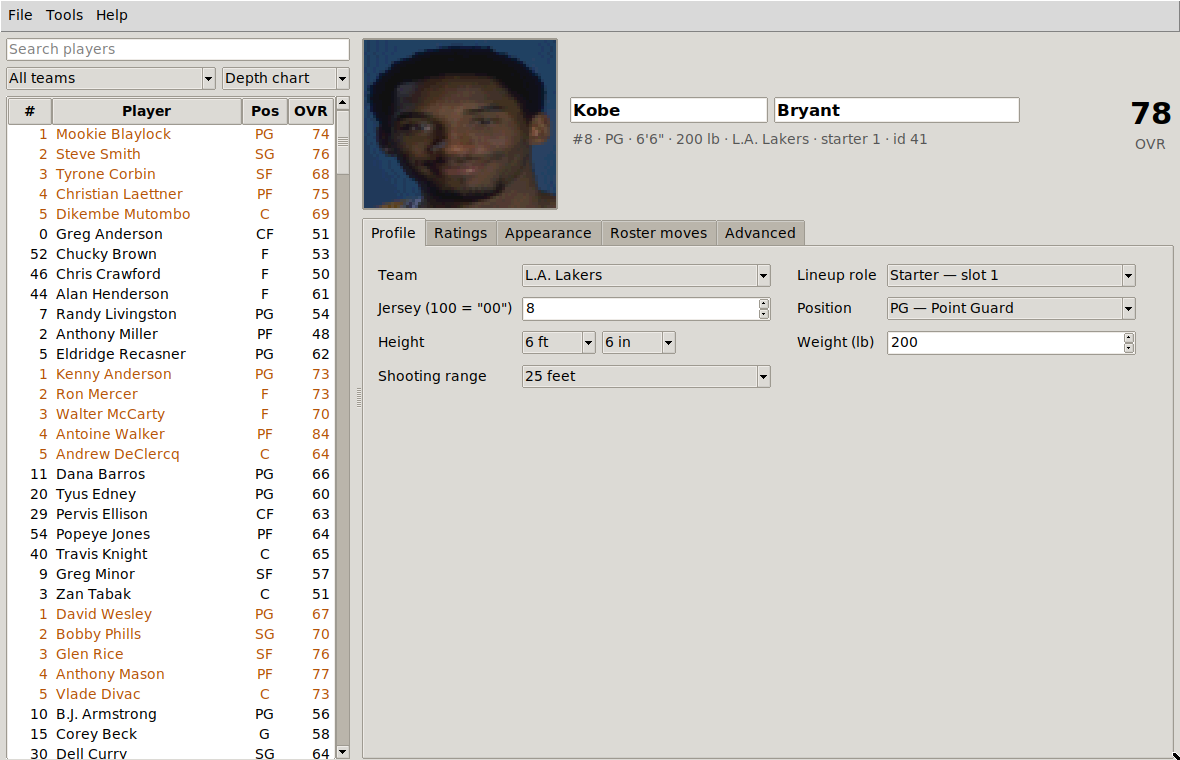
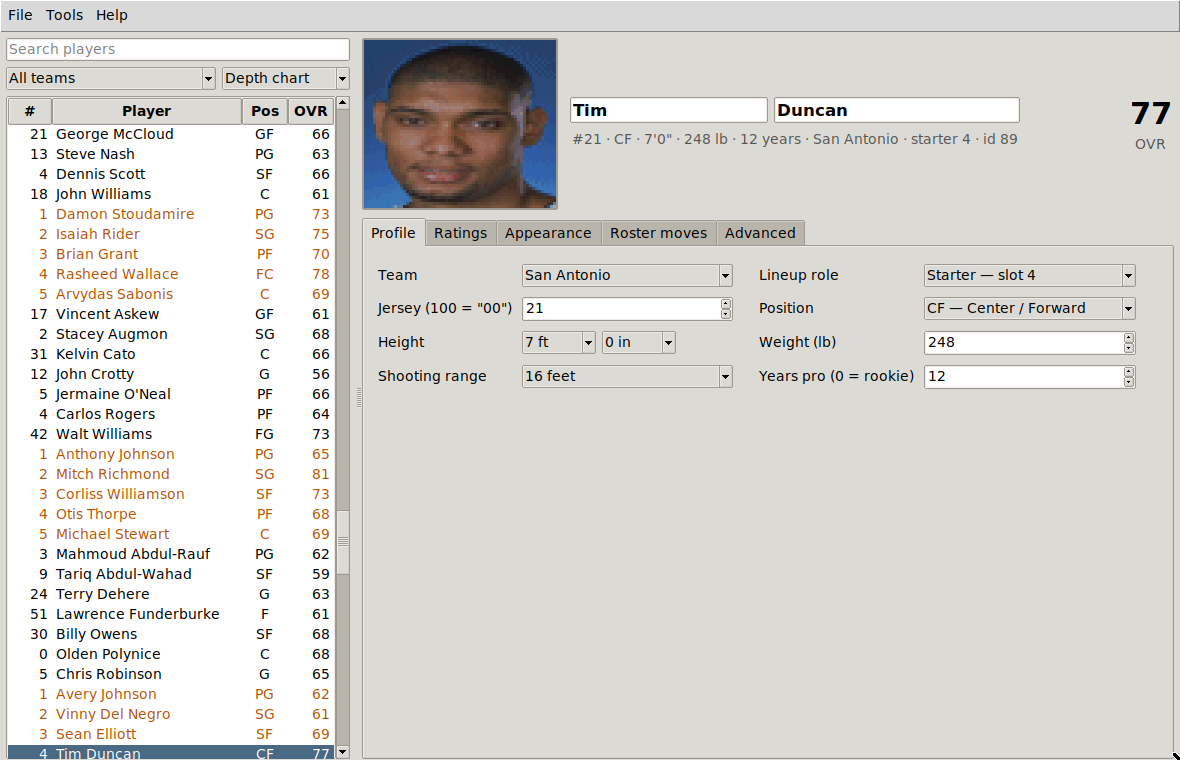
Make years pro editable, and stop overwriting it with likenesses
Byte 0x10 of the player record turns out to be years pro. It was checked
against the draft year of 68 players and agrees with every one: the 1997
rookie class sits at 0, Kobe Bryant at 1, Reggie Miller at 10, John Stockton
and Hakeem Olajuwon at 13, and the four 1980-81 draftees - Mahorn, Schayes,
Buck Williams, Herb Williams - at 16. Across the whole roster it forms a
clean career pyramid, 33 rookies tapering to those four.

It is now a first-class field: a spinbox on the Profile tab of both UIs,
"set --years-pro N" on the command line, "list --sort years", and part of
the JSON export. Cards read "experience: rookie" or "experience: 10 years".

This also fixes a bug the identification exposed. 0x10 sat inside the run of
model and skin bytes that "reassign appearance" copies wholesale, so giving
one player another's face silently rewrote his career length - handing Tim
Duncan the look of Karl Malone aged him from rookie to twelve seasons. The
byte is now excluded from that copy, with a test pinning the behaviour.

Claude-Session: https://claude.ai/code/session_016LzGDPGcqnbG4eMU1GV3iH

diff --git a/courtside/web/app.js b/courtside/web/app.js
@@ -132,7 +132,8 @@ function renderDetail() {
   $(".f-last", root).value = p.last_name;
   $(".subtitle", root).textContent =
     `#${p.jersey_text} · ${p.position} · ${p.height_text} · ${p.weight_lbs} lb · ` +
-    `${p.team_name}${p.starter ? ` · starter ${p.starter}` : ""} · id ${p.id}`;
+    `${p.years_pro_text} · ${p.team_name}` +
+    `${p.starter ? ` · starter ${p.starter}` : ""} · id ${p.id}`;
   $(".ovr-value", root).textContent = p.overall;
 
   // profile
@@ -149,6 +150,7 @@ function renderDetail() {
   $(".f-inches", root).innerHTML = optionList(
     [...Array(12).keys()].map((i) => ({ value: i, label: `${i} in` })), inch);
   $(".f-weight", root).value = p.weight_lbs;
+  $(".f-years", root).value = p.years_pro;
   $(".f-range", root).innerHTML = optionList(
     STATE.meta.range_feet.map((ft, i) => ({ value: i, label: `${ft} feet` })), p.range);
 
@@ -170,7 +172,7 @@ function renderDetail() {
     .map((o) => ({ value: o.id, label: `${o.last_name}, ${o.first_name} — ${o.team_name}` }));
   $(".f-source", root).innerHTML = optionList(others, others.length ? others[0].value : "");
   $(".portrait-source", root).src = photoUrl($(".f-source", root).value);
-  $(".model-grid", root).innerHTML = ["model_a", "model_b", "flags_a", "flags_b", "misc_14", "misc_15"]
+  $(".model-grid", root).innerHTML = ["model_b", "flags_a", "flags_b", "misc_14", "misc_15"]
     .map((key) => miscField(key, p)).join("");
 
   // moves
@@ -181,7 +183,7 @@ function renderDetail() {
 
   // advanced
   $(".misc-grid", root).innerHTML = STATE.meta.misc
-    .filter((m) => !["model_a", "model_b", "flags_a", "flags_b", "misc_14", "misc_15"].includes(m.key))
+    .filter((m) => !["model_b", "flags_a", "flags_b", "misc_14", "misc_15"].includes(m.key))
     .map((m) => miscField(m.key, p)).join("");
 
   host.innerHTML = "";
@@ -233,6 +235,7 @@ function wireDetail(host, p) {
   bind(".f-jersey", "jersey", Number);
   bind(".f-position", "position");
   bind(".f-weight", "weight_lbs", Number);
+  bind(".f-years", "years_pro", Number);
   bind(".f-range", "range", Number);
   bind(".f-team", "team", Number);
   bind(".f-starter", "starter", Number);

diff --git a/courtside/web/index.html b/courtside/web/index.html
@@ -100,6 +100,9 @@
       <label>Shooting range
         <select class="f-range"></select>
       </label>
+      <label>Years pro <span class="tiny">(0 = rookie)</span>
+        <input class="f-years" type="number" min="0" max="30">
+      </label>
     </div>
   </div>
 

diff --git a/courtside/gui.py b/courtside/gui.py
@@ -280,6 +280,15 @@ class CourtsideGUI(tk.Tk):
             values=["%d feet" % ft for ft in roster.RANGE_FEET])
         self.cmb_range.pack(fill="x")
         self.cmb_range.bind("<<ComboboxSelected>>", lambda e: self.commit_range())
+
+        self.var_years = tk.StringVar()
+        self.spn_years = ttk.Spinbox(
+            cell(3, 1, "Years pro (0 = rookie)"), from_=0, to=roster.YEARS_PRO_MAX,
+            increment=1, textvariable=self.var_years,
+            command=lambda: self.commit_years())
+        self.spn_years.pack(fill="x")
+        self.spn_years.bind("<FocusOut>", lambda e: self.commit_years())
+        self.spn_years.bind("<Return>", lambda e: self.commit_years())
         return tab
 
     def _tab_ratings(self) -> ttk.Frame:
@@ -391,7 +400,7 @@ class CourtsideGUI(tk.Tk):
 
         ttk.Separator(tab, orient="horizontal").pack(fill="x", pady=14)
         self.model_vars = self._byte_grid(
-            tab, ["model_a", "model_b", "flags_a", "flags_b", "misc_14", "misc_15"])
+            tab, ["model_b", "flags_a", "flags_b", "misc_14", "misc_15"])
         return tab
 
     def _tab_moves(self) -> ttk.Frame:
@@ -437,7 +446,7 @@ class CourtsideGUI(tk.Tk):
             "editable for experimentation; leave them alone if you are unsure.")
         ).pack(anchor="w", pady=(0, 12))
         keys = [m[0] for m in roster.MISC_FIELDS
-                if m[0] not in ("model_a", "model_b", "flags_a", "flags_b",
+                if m[0] not in ("model_b", "flags_a", "flags_b",
                                 "misc_14", "misc_15")]
         self.misc_vars = self._byte_grid(tab, keys)
         return tab
@@ -589,9 +598,9 @@ class CourtsideGUI(tk.Tk):
         try:
             self.var_first.set(p.first_name)
             self.var_last.set(p.last_name)
-            self.lbl_sub.config(text="#%s · %s · %s · %d lb · %s%s · id %d" % (
+            self.lbl_sub.config(text="#%s · %s · %s · %d lb · %s · %s%s · id %d" % (
                 p.jersey_text, p.position, p.height_text, p.weight_lbs,
-                db.team_name(p.team),
+                p.years_pro_text, db.team_name(p.team),
                 " · starter %d" % db.starter_slot(p) if db.starter_slot(p) else "",
                 p.player_id))
             self.lbl_ovr.config(text=str(p.overall))
@@ -605,6 +614,7 @@ class CourtsideGUI(tk.Tk):
             self.var_inches.set("%d in" % p.height_remainder)
             self.var_weight.set(str(p.weight_lbs))
             self.var_range.set("%d feet" % p.range_feet)
+            self.var_years.set(str(p.years_pro))
 
             for key, var in self.rating_vars.items():
                 value = p.attribute(key)
@@ -730,6 +740,18 @@ class CourtsideGUI(tk.Tk):
             return
         self.current.set_height(feet, inches)
         self._after_edit("Height set to %s" % self.current.height_text)
+
+    def commit_years(self) -> None:
+        if self._loading or self.current is None:
+            return
+        try:
+            value = int(float(self.var_years.get()))
+        except ValueError:
+            return
+        if self.current.years_pro == value:
+            return
+        self.current.years_pro = value
+        self._after_edit("Experience set to %s" % self.current.years_pro_text)
 
     def commit_range(self) -> None:
         if self._loading or self.current is None:

diff --git a/tests/test_courtside.py b/tests/test_courtside.py
@@ -383,6 +383,25 @@ class TestRomRoundTrip(unittest.TestCase):
         bogues = self.editor.one("Bogues")
         self.assertEqual(bogues.height_text, "5'3\"")
 
+    def test_years_pro_matches_real_careers(self):
+        # seasons completed before 1997-98, taken from each player's draft year
+        expected = {
+            "Tim Duncan": 0, "Keith Van Horn": 0, "Brevin Knight": 0,
+            "Kobe Bryant": 1, "Allen Iverson": 1, "Ray Allen": 1,
+            "Kevin Garnett": 2, "Grant Hill": 3, "Anfernee Hardaway": 4,
+            "Shaquille O'Neal": 5, "Dikembe Mutombo": 6, "Gary Payton": 7,
+            "Reggie Miller": 10, "Dennis Rodman": 11, "Karl Malone": 12,
+            "John Stockton": 13, "Hakeem Olajuwon": 13, "Buck Williams": 16,
+        }
+        for name, want in expected.items():
+            self.assertEqual(self.editor.one(name).years_pro, want, name)
+
+    def test_rookies_and_veterans_look_sane(self):
+        years = [p.years_pro for p in self.editor.db.real_players()]
+        self.assertEqual(min(years), 0)
+        self.assertLessEqual(max(years), roster.YEARS_PRO_MAX)
+        self.assertGreater(years.count(0), 20)   # a full rookie class
+
     def test_heights_are_valid_feet_inches(self):
         for p in self.editor.db.players:
             self.assertLessEqual(p.height_remainder, 11, p.full_name)
@@ -458,6 +477,25 @@ class TestEditing(unittest.TestCase):
         db.set_starter_slot(bench, 1)
         slots = sorted(s.starter for s in db.roster(13) if s.starter)
         self.assertEqual(slots, [1, 2, 3, 4, 5])
+
+    def test_years_pro_survives_a_save(self):
+        p = self.editor.one("Tim Duncan")
+        self.assertEqual(p.years_pro, 0)
+        p.years_pro = 12
+        path = self.out()
+        self.editor.save(path)
+        again = RosterEditor.open(path)
+        self.assertEqual(again.one("Tim Duncan").years_pro, 12)
+        self.assertEqual(again.one("Tim Duncan").years_pro_text, "12 years")
+
+    def test_reassigning_a_likeness_leaves_experience_alone(self):
+        # 0x10 sits among the model bytes but is a career figure, not a look
+        rookie = self.editor.one("Tim Duncan")
+        veteran = self.editor.one("Karl Malone")
+        before = rookie.years_pro
+        self.editor.reassign_appearance("Tim Duncan", "Karl Malone")
+        self.assertEqual(rookie.years_pro, before)
+        self.assertNotEqual(rookie.years_pro, veteran.years_pro)
 
     def test_appearance_reassignment_persists(self):
         dst, src = self.editor.reassign_appearance("Shaquille", "Kobe Bryant")

diff --git a/courtside/cli.py b/courtside/cli.py
@@ -44,6 +44,7 @@ def print_card(ed: RosterEditor, p: roster.Player) -> None:
     print("  id %-6d team %-18s %s" % (
         p.player_id, ed.db.team_name(p.team),
         "starter %d" % slot if slot else "bench"))
+    print("  experience: %s" % p.years_pro_text)
     print("  %s, %d lb   shooting range %d ft" % (p.height_text, p.weight_lbs, p.range_feet))
     print("  ratings:")
     for a in roster.ATTRIBUTES:
@@ -115,7 +116,8 @@ def cmd_list(ed: RosterEditor, args) -> int:
     key = {"name": lambda p: p.last_name.lower(),
            "overall": lambda p: -p.overall,
            "team": lambda p: (p.team, p.last_name.lower()),
-           "id": lambda p: p.player_id}[args.sort]
+           "id": lambda p: p.player_id,
+           "years": lambda p: -p.years_pro}[args.sort]
     for p in sorted(players, key=key):
         print(player_line(ed, p))
     print("%d player(s)" % len(players))
@@ -143,6 +145,8 @@ def cmd_set(ed: RosterEditor, args) -> int:
         p.jersey = args.jersey
     if args.position:
         p.position = args.position
+    if args.years_pro is not None:
+        p.years_pro = args.years_pro
     if args.height:
         p.height_inches = parse_height(args.height)
     if args.weight is not None:
@@ -301,7 +305,8 @@ def build_parser() -> argparse.ArgumentParser:
     p.add_argument("--search", help="substring of the player's name")
     p.add_argument("--position", help="exact position code, e.g. SG")
     p.add_argument("--all", action="store_true", help="include the bonus/dev roster slots")
-    p.add_argument("--sort", choices=("name", "overall", "team", "id"), default="name")
+    p.add_argument("--sort", choices=("name", "overall", "team", "id", "years"),
+                   default="name")
     p.set_defaults(func=cmd_list)
 
     p = sub.add_parser("show", help="print a full player card")
@@ -315,6 +320,8 @@ def build_parser() -> argparse.ArgumentParser:
     p.add_argument("--last-name")
     p.add_argument("--jersey", type=int)
     p.add_argument("--position", help="one of %s" % ", ".join(roster.POSITION_CODES))
+    p.add_argument("--years-pro", type=int, metavar="N",
+                   help="seasons completed before this one; 0 is a rookie")
     p.add_argument("--height", help="e.g. 6'6\" or 78")
     p.add_argument("--weight", type=int, help="pounds")
     p.add_argument("--range", type=int, choices=range(5),

diff --git a/courtside/roster.py b/courtside/roster.py
@@ -66,11 +66,16 @@ ATTRIBUTES_BY_KEY = {a.key: a for a in ATTRIBUTES}
 RANGE_OFFSET = 0x16
 RANGE_FEET = (8, 12, 16, 20, 25)
 
+#: Seasons completed before this one; 0 is a rookie.  Verified against the
+#: draft year of 68 players, from the 1997 rookie class up to the four
+#: 1980-81 draftees who sit at 16.
+YEARS_PRO_OFFSET = 0x10
+YEARS_PRO_MAX = 30
+
 #: Bytes that drive how a player looks and behaves but whose exact meaning is
 #: not pinned down.  They are copied wholesale by "reassign appearance" and are
 #: individually editable for anyone who wants to experiment.
 MISC_FIELDS: tuple[tuple[str, str, int, int, int], ...] = (
-    ("model_a", "Model A", 0x10, 0, 255),
     ("model_b", "Model B", 0x11, 0, 255),
     ("flags_a", "Flags A", 0x12, 0, 255),
     ("flags_b", "Flags B", 0x13, 0, 255),
@@ -84,8 +89,10 @@ MISC_FIELDS: tuple[tuple[str, str, int, int, int], ...] = (
 
 MISC_BY_KEY = {m[0]: m for m in MISC_FIELDS}
 
-#: The six bytes that describe a player's on-court model and skin.
-APPEARANCE_OFFSETS = (0x10, 0x11, 0x12, 0x13, 0x14, 0x15)
+#: The bytes that describe a player's on-court model and skin.  0x10 sits in
+#: the middle of this run but is his years pro, so it is deliberately excluded:
+#: handing someone another player's face must not rewrite his career length.
+APPEARANCE_OFFSETS = (0x11, 0x12, 0x13, 0x14, 0x15)
 
 # ---------------------------------------------------------------------------
 # positions
@@ -275,6 +282,22 @@ class Player:
     @property
     def jersey_text(self) -> str:
         return "00" if self.jersey == JERSEY_DOUBLE_ZERO else str(self.jersey)
+
+    @property
+    def years_pro(self) -> int:
+        """Seasons completed before this one; 0 is a rookie."""
+        return self.raw[YEARS_PRO_OFFSET]
+
+    @years_pro.setter
+    def years_pro(self, value: int) -> None:
+        self.raw[YEARS_PRO_OFFSET] = max(0, min(YEARS_PRO_MAX, int(value)))
+
+    @property
+    def years_pro_text(self) -> str:
+        years = self.years_pro
+        if years == 0:
+            return "rookie"
+        return "%d year%s" % (years, "" if years == 1 else "s")
 
     @property
     def position(self) -> str:

diff --git a/courtside/editor.py b/courtside/editor.py
@@ -203,6 +203,8 @@ class RosterEditor:
             "jersey": p.jersey,
             "jersey_text": p.jersey_text,
             "position": p.position,
+            "years_pro": p.years_pro,
+            "years_pro_text": p.years_pro_text,
             "height_inches": p.height_inches,
             "height_text": p.height_text,
             "weight_lbs": p.weight_lbs,
@@ -251,6 +253,8 @@ class RosterEditor:
             p.jersey = int(entry["jersey"])
         if entry.get("position"):
             p.position = entry["position"]
+        if "years_pro" in entry:
+            p.years_pro = int(entry["years_pro"])
         if "height_inches" in entry:
             p.height_inches = int(entry["height_inches"])
         if "weight_lbs" in entry:

diff --git a/README.md b/README.md
@@ -23,6 +23,7 @@ Python 3.10 or newer and nothing else.
   starting slots)
 - Jersey number, including the "00" shirt
 - Position — all eleven codes the game supports: `C PF SF F G PG SG FC CF GF FG`
+- Years pro, from rookie up to a 16-season veteran
 - Height in feet and inches, and weight in pounds
 - Shooting range (8, 12, 16, 20 or 25 feet)
 - All fourteen ratings: Shooting, 3 Pointers, Free Throws, Dribbling, Passing,
@@ -142,11 +143,12 @@ python3 -m courtside rom.z64 info
 python3 -m courtside rom.z64 teams --verbose --nba-only
 python3 -m courtside rom.z64 list --team Lakers
 python3 -m courtside rom.z64 list --sort overall | head -20
+python3 -m courtside rom.z64 list --sort years | head -20     # most experienced
 python3 -m courtside rom.z64 show "Reggie Miller"
 
 # edit a player
 python3 -m courtside rom.z64 set "Kobe Bryant" -o out.z64 \
-    --jersey 24 --position SG --height 6'7\" --weight 212 \
+    --jersey 24 --position SG --height 6'7\" --weight 212 --years-pro 5 \
     --attr three_pointers=95 --attr dunking=100 --starter 1
 
 # roster moves
@@ -178,6 +180,7 @@ python3 -m courtside rom.z64 verify
 ```
 Reggie Miller  (#31, SG)
   id 205    team Indiana            starter 2
+  experience: 10 years
   6'7", 185 lb   shooting range 25 ft
   ratings:
     Shooting       100  ####################

diff --git a/docs/FILE_FORMATS.md b/docs/FILE_FORMATS.md
@@ -182,7 +182,8 @@ u32  slots used    (348 real NBA players; the rest are the bonus teams)
 | `0x0D` | u8 | height: feet in the high nibble, inches in the low one (`0x61` = 6'1") |
 | `0x0E` | u8 | weight in pounds − 100 |
 | `0x0F` | u8 | always 0 |
-| `0x10`–`0x15` | u8 × 6 | on-court model / skin bytes |
+| `0x10` | u8 | years pro — seasons completed before this one, 0 for a rookie |
+| `0x11`–`0x15` | u8 × 5 | on-court model / skin bytes |
 | `0x16` | u8 | shooting range, index into 8/12/16/20/25 feet |
 | `0x17` | u8 | Shooting |
 | `0x18` | u8 | 3 Pointers |
@@ -212,6 +213,13 @@ one byte of the record, which pins the mapping. Spot checks agree with what you
 would expect: Shaquille O'Neal has Free Throws 49 and Dunking 100, Reggie
 Miller has 3 Pointers 100, Gary Payton has Stealing 100, Dikembe Mutombo has
 Blocking 100 and Muggsy Bogues has Blocking 5.
+
+`0x10` was pinned down by comparing it against the draft year of 68 players:
+it agrees with every one, from the 1997 rookie class at 0 up to the four
+1980-81 draftees (Rick Mahorn, Danny Schayes, Buck Williams, Herb Williams)
+at 16. The whole roster forms a clean career pyramid — 33 rookies tapering to
+those four. It sits in the middle of the model/skin run, so copying a likeness
+must skip it.
 
 #### Position byte (`0x0C`)
 
